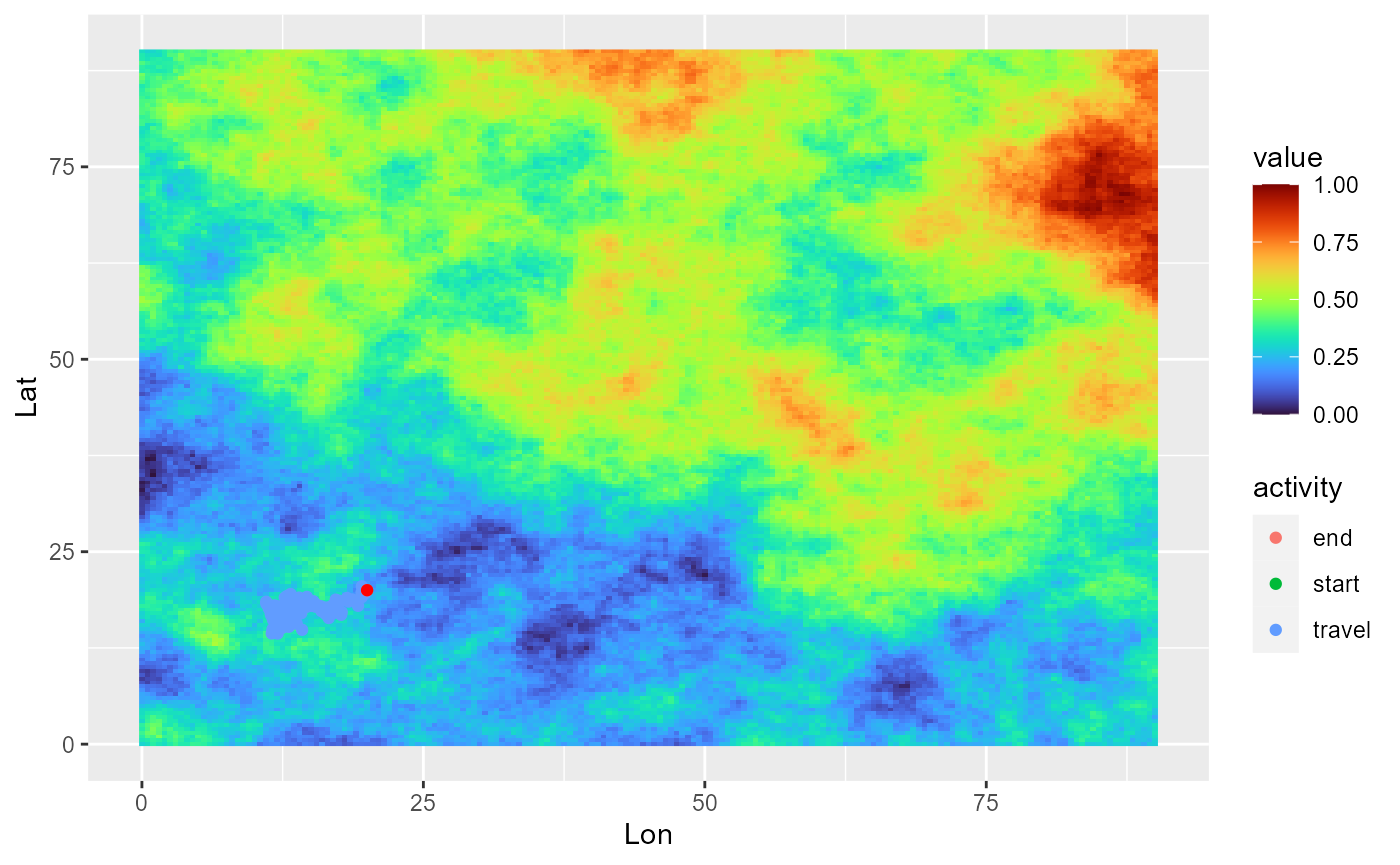
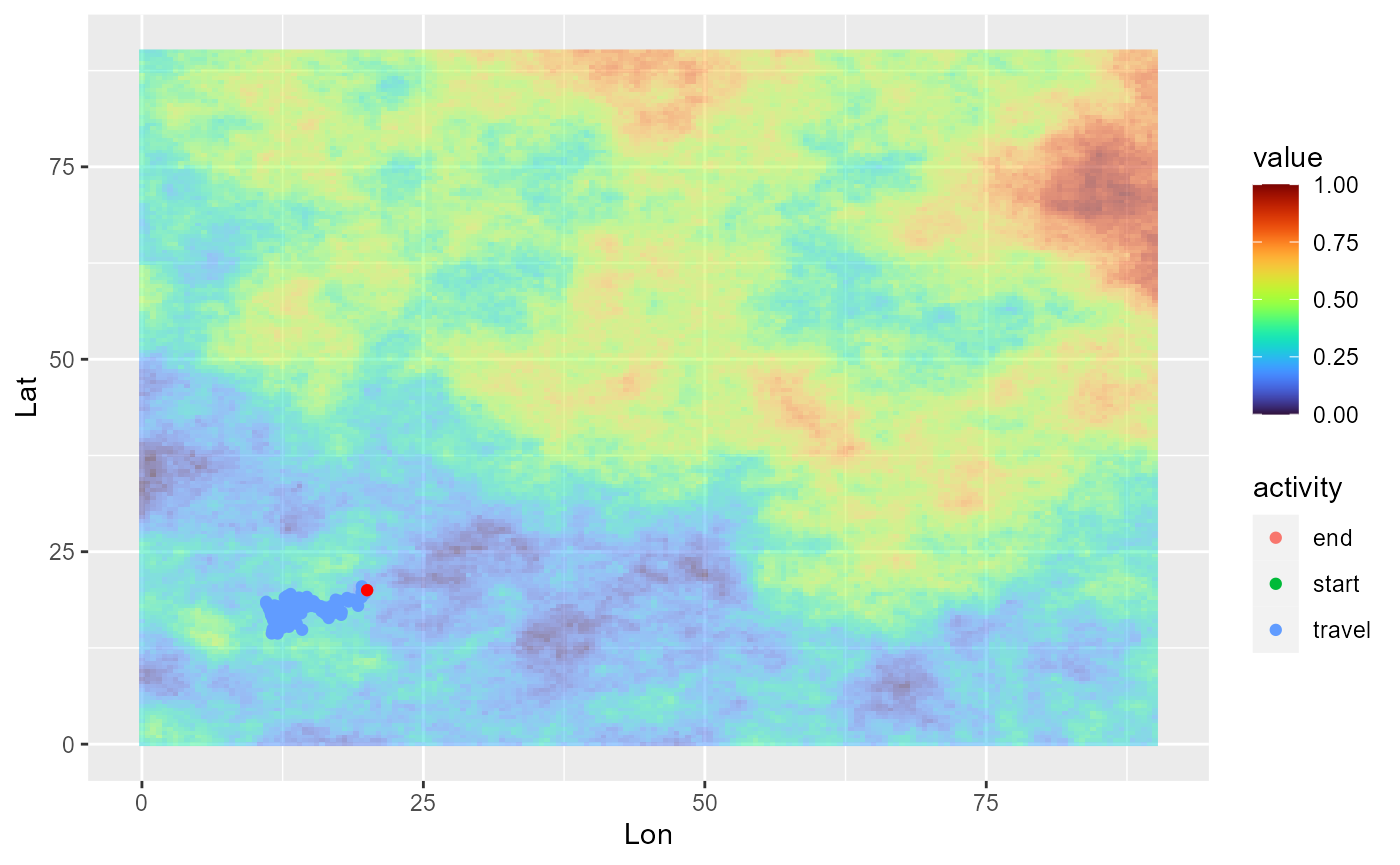
Update documentation of simulate_trajectory_FR and clean generate_env_layer examples (remove duplicates)

diff --git a/inst/site/reference/simulate_trajectory_FR.html b/inst/site/reference/simulate_trajectory_FR.html
@@ -1,5 +1,5 @@
 <!DOCTYPE html>
-<!-- Generated by pkgdown: do not edit by hand --><html lang="en"><head><meta http-equiv="Content-Type" content="text/html; charset=UTF-8"><meta charset="utf-8"><meta http-equiv="X-UA-Compatible" content="IE=edge"><meta name="viewport" content="width=device-width, initial-scale=1, shrink-to-fit=no"><meta name="description" content="Simulate the trajectory of a free ranging individual, over a given time period. The function works similarly as simulate_trajectory_CPF but the individual is not restrained around its colony and does not perform homing bout."><title>Simulate individual trajectory — simulate_trajectory_FR • simtools</title><!-- favicons --><link rel="icon" type="image/png" sizes="16x16" href="../favicon-16x16.png"><link rel="icon" type="image/png" sizes="32x32" href="../favicon-32x32.png"><link rel="apple-touch-icon" type="image/png" sizes="180x180" href="../apple-touch-icon.png"><link rel="apple-touch-icon" type="image/png" sizes="120x120" href="../apple-touch-icon-120x120.png"><link rel="apple-touch-icon" type="image/png" sizes="76x76" href="../apple-touch-icon-76x76.png"><link rel="apple-touch-icon" type="image/png" sizes="60x60" href="../apple-touch-icon-60x60.png"><script src="../deps/jquery-3.6.0/jquery-3.6.0.min.js"></script><meta name="viewport" content="width=device-width, initial-scale=1, shrink-to-fit=no"><link href="../deps/bootstrap-5.2.2/bootstrap.min.css" rel="stylesheet"><script src="../deps/bootstrap-5.2.2/bootstrap.bundle.min.js"></script><!-- Font Awesome icons --><link rel="stylesheet" href="https://cdnjs.cloudflare.com/ajax/libs/font-awesome/5.12.1/css/all.min.css" integrity="sha256-mmgLkCYLUQbXn0B1SRqzHar6dCnv9oZFPEC1g1cwlkk=" crossorigin="anonymous"><link rel="stylesheet" href="https://cdnjs.cloudflare.com/ajax/libs/font-awesome/5.12.1/css/v4-shims.min.css" integrity="sha256-wZjR52fzng1pJHwx4aV2AO3yyTOXrcDW7jBpJtTwVxw=" crossorigin="anonymous"><!-- bootstrap-toc --><script src="https://cdn.jsdelivr.net/gh/afeld/bootstrap-toc@v1.0.1/dist/bootstrap-toc.min.js" integrity="sha256-4veVQbu7//Lk5TSmc7YV48MxtMy98e26cf5MrgZYnwo=" crossorigin="anonymous"></script><!-- headroom.js --><script src="https://cdnjs.cloudflare.com/ajax/libs/headroom/0.11.0/headroom.min.js" integrity="sha256-AsUX4SJE1+yuDu5+mAVzJbuYNPHj/WroHuZ8Ir/CkE0=" crossorigin="anonymous"></script><script src="https://cdnjs.cloudflare.com/ajax/libs/headroom/0.11.0/jQuery.headroom.min.js" integrity="sha256-ZX/yNShbjqsohH1k95liqY9Gd8uOiE1S4vZc+9KQ1K4=" crossorigin="anonymous"></script><!-- clipboard.js --><script src="https://cdnjs.cloudflare.com/ajax/libs/clipboard.js/2.0.6/clipboard.min.js" integrity="sha256-inc5kl9MA1hkeYUt+EC3BhlIgyp/2jDIyBLS6k3UxPI=" crossorigin="anonymous"></script><!-- search --><script src="https://cdnjs.cloudflare.com/ajax/libs/fuse.js/6.4.6/fuse.js" integrity="sha512-zv6Ywkjyktsohkbp9bb45V6tEMoWhzFzXis+LrMehmJZZSys19Yxf1dopHx7WzIKxr5tK2dVcYmaCk2uqdjF4A==" crossorigin="anonymous"></script><script src="https://cdnjs.cloudflare.com/ajax/libs/autocomplete.js/0.38.0/autocomplete.jquery.min.js" integrity="sha512-GU9ayf+66Xx2TmpxqJpliWbT5PiGYxpaG8rfnBEk1LL8l1KGkRShhngwdXK1UgqhAzWpZHSiYPc09/NwDQIGyg==" crossorigin="anonymous"></script><script src="https://cdnjs.cloudflare.com/ajax/libs/mark.js/8.11.1/mark.min.js" integrity="sha512-5CYOlHXGh6QpOFA/TeTylKLWfB3ftPsde7AnmhuitiTX4K5SqCLBeKro6sPS8ilsz1Q4NRx3v8Ko2IBiszzdww==" crossorigin="anonymous"></script><!-- pkgdown --><script src="../pkgdown.js"></script><meta property="og:title" content="Simulate individual trajectory — simulate_trajectory_FR"><meta property="og:description" content="Simulate the trajectory of a free ranging individual, over a given time period. The function works similarly as simulate_trajectory_CPF but the individual is not restrained around its colony and does not perform homing bout."><meta property="og:image" content="/logo.png"><!-- mathjax --><script src="https://cdnjs.cloudflare.com/ajax/libs/mathjax/2.7.5/MathJax.js" integrity="sha256-nvJJv9wWKEm88qvoQl9ekL2J+k/RWIsaSScxxlsrv8k=" crossorigin="anonymous"></script><script src="https://cdnjs.cloudflare.com/ajax/libs/mathjax/2.7.5/config/TeX-AMS-MML_HTMLorMML.js" integrity="sha256-84DKXVJXs0/F8OTMzX4UR909+jtl4G7SPypPavF+GfA=" crossorigin="anonymous"></script><!--[if lt IE 9]>
+<!-- Generated by pkgdown: do not edit by hand --><html lang="en"><head><meta http-equiv="Content-Type" content="text/html; charset=UTF-8"><meta charset="utf-8"><meta http-equiv="X-UA-Compatible" content="IE=edge"><meta name="viewport" content="width=device-width, initial-scale=1, shrink-to-fit=no"><meta name="description" content="Simulate the trajectory of a free ranging individual, over a given time period. The function works similarly as simulate_trajectory_CPF but the individual is not restrained around a colony and does not perform homing bout. Here, potential_position_func() considers the initial position as the colony, so that the dist_col field in the output corresponds to the distance to this starting point."><title>Simulate individual trajectory — simulate_trajectory_FR • simtools</title><!-- favicons --><link rel="icon" type="image/png" sizes="16x16" href="../favicon-16x16.png"><link rel="icon" type="image/png" sizes="32x32" href="../favicon-32x32.png"><link rel="apple-touch-icon" type="image/png" sizes="180x180" href="../apple-touch-icon.png"><link rel="apple-touch-icon" type="image/png" sizes="120x120" href="../apple-touch-icon-120x120.png"><link rel="apple-touch-icon" type="image/png" sizes="76x76" href="../apple-touch-icon-76x76.png"><link rel="apple-touch-icon" type="image/png" sizes="60x60" href="../apple-touch-icon-60x60.png"><script src="../deps/jquery-3.6.0/jquery-3.6.0.min.js"></script><meta name="viewport" content="width=device-width, initial-scale=1, shrink-to-fit=no"><link href="../deps/bootstrap-5.2.2/bootstrap.min.css" rel="stylesheet"><script src="../deps/bootstrap-5.2.2/bootstrap.bundle.min.js"></script><!-- Font Awesome icons --><link rel="stylesheet" href="https://cdnjs.cloudflare.com/ajax/libs/font-awesome/5.12.1/css/all.min.css" integrity="sha256-mmgLkCYLUQbXn0B1SRqzHar6dCnv9oZFPEC1g1cwlkk=" crossorigin="anonymous"><link rel="stylesheet" href="https://cdnjs.cloudflare.com/ajax/libs/font-awesome/5.12.1/css/v4-shims.min.css" integrity="sha256-wZjR52fzng1pJHwx4aV2AO3yyTOXrcDW7jBpJtTwVxw=" crossorigin="anonymous"><!-- bootstrap-toc --><script src="https://cdn.jsdelivr.net/gh/afeld/bootstrap-toc@v1.0.1/dist/bootstrap-toc.min.js" integrity="sha256-4veVQbu7//Lk5TSmc7YV48MxtMy98e26cf5MrgZYnwo=" crossorigin="anonymous"></script><!-- headroom.js --><script src="https://cdnjs.cloudflare.com/ajax/libs/headroom/0.11.0/headroom.min.js" integrity="sha256-AsUX4SJE1+yuDu5+mAVzJbuYNPHj/WroHuZ8Ir/CkE0=" crossorigin="anonymous"></script><script src="https://cdnjs.cloudflare.com/ajax/libs/headroom/0.11.0/jQuery.headroom.min.js" integrity="sha256-ZX/yNShbjqsohH1k95liqY9Gd8uOiE1S4vZc+9KQ1K4=" crossorigin="anonymous"></script><!-- clipboard.js --><script src="https://cdnjs.cloudflare.com/ajax/libs/clipboard.js/2.0.6/clipboard.min.js" integrity="sha256-inc5kl9MA1hkeYUt+EC3BhlIgyp/2jDIyBLS6k3UxPI=" crossorigin="anonymous"></script><!-- search --><script src="https://cdnjs.cloudflare.com/ajax/libs/fuse.js/6.4.6/fuse.js" integrity="sha512-zv6Ywkjyktsohkbp9bb45V6tEMoWhzFzXis+LrMehmJZZSys19Yxf1dopHx7WzIKxr5tK2dVcYmaCk2uqdjF4A==" crossorigin="anonymous"></script><script src="https://cdnjs.cloudflare.com/ajax/libs/autocomplete.js/0.38.0/autocomplete.jquery.min.js" integrity="sha512-GU9ayf+66Xx2TmpxqJpliWbT5PiGYxpaG8rfnBEk1LL8l1KGkRShhngwdXK1UgqhAzWpZHSiYPc09/NwDQIGyg==" crossorigin="anonymous"></script><script src="https://cdnjs.cloudflare.com/ajax/libs/mark.js/8.11.1/mark.min.js" integrity="sha512-5CYOlHXGh6QpOFA/TeTylKLWfB3ftPsde7AnmhuitiTX4K5SqCLBeKro6sPS8ilsz1Q4NRx3v8Ko2IBiszzdww==" crossorigin="anonymous"></script><!-- pkgdown --><script src="../pkgdown.js"></script><meta property="og:title" content="Simulate individual trajectory — simulate_trajectory_FR"><meta property="og:description" content="Simulate the trajectory of a free ranging individual, over a given time period. The function works similarly as simulate_trajectory_CPF but the individual is not restrained around a colony and does not perform homing bout. Here, potential_position_func() considers the initial position as the colony, so that the dist_col field in the output corresponds to the distance to this starting point."><meta property="og:image" content="/logo.png"><!-- mathjax --><script src="https://cdnjs.cloudflare.com/ajax/libs/mathjax/2.7.5/MathJax.js" integrity="sha256-nvJJv9wWKEm88qvoQl9ekL2J+k/RWIsaSScxxlsrv8k=" crossorigin="anonymous"></script><script src="https://cdnjs.cloudflare.com/ajax/libs/mathjax/2.7.5/config/TeX-AMS-MML_HTMLorMML.js" integrity="sha256-84DKXVJXs0/F8OTMzX4UR909+jtl4G7SPypPavF+GfA=" crossorigin="anonymous"></script><!--[if lt IE 9]>
 <script src="https://oss.maxcdn.com/html5shiv/3.7.3/html5shiv.min.js"></script>
 <script src="https://oss.maxcdn.com/respond/1.4.2/respond.min.js"></script>
 <![endif]--></head><body>
@@ -55,7 +55,7 @@
     </div>
 
     <div class="ref-description section level2">
-    <p>Simulate the trajectory of a free ranging individual, over a given time period. The function works similarly as <code><a href="simulate_trajectory_CPF.html">simulate_trajectory_CPF</a></code> but the individual is not restrained around its colony and does not perform homing bout.</p>
+    <p>Simulate the trajectory of a free ranging individual, over a given time period. The function works similarly as <code><a href="simulate_trajectory_CPF.html">simulate_trajectory_CPF</a></code> but the individual is not restrained around a colony and does not perform homing bout. Here, <code><a href="potential_position_func.html">potential_position_func()</a></code> considers the initial position as the colony, so that the dist_col field in the output corresponds to the distance to this starting point.</p>
     </div>
 
     <div class="section level2">
@@ -188,7 +188,7 @@
 <span class="r-in"><span></span></span>
 <span class="r-in"><span><span class="co"># view the trajectory</span></span></span>
 <span class="r-in"><span><span class="fu"><a href="https://ggplot2.tidyverse.org/reference/ggplot.html" class="external-link">ggplot</a></span><span class="op">(</span><span class="va">single_traj</span><span class="op">)</span> <span class="op">+</span></span></span>
-<span class="r-in"><span>  <span class="fu"><a href="https://dieghernan.github.io/tidyterra/reference/geom_spatraster.html" class="external-link">geom_spatraster</a></span><span class="op">(</span>data <span class="op">=</span> <span class="va">cdt</span><span class="op">$</span><span class="va">rasters</span><span class="op">)</span> <span class="op">+</span> </span></span>
+<span class="r-in"><span>  <span class="fu"><a href="https://dieghernan.github.io/tidyterra/reference/geom_spatraster.html" class="external-link">geom_spatraster</a></span><span class="op">(</span>data <span class="op">=</span> <span class="va">cdt</span><span class="op">$</span><span class="va">rasters</span>, alpha <span class="op">=</span> <span class="fl">0.5</span><span class="op">)</span> <span class="op">+</span> </span></span>
 <span class="r-in"><span>  <span class="fu"><a href="https://ggplot2.tidyverse.org/reference/geom_point.html" class="external-link">geom_point</a></span><span class="op">(</span><span class="fu"><a href="https://ggplot2.tidyverse.org/reference/aes.html" class="external-link">aes</a></span><span class="op">(</span>x <span class="op">=</span> <span class="va">Lon</span>, y <span class="op">=</span> <span class="va">Lat</span>, color <span class="op">=</span> <span class="va">activity</span><span class="op">)</span><span class="op">)</span> <span class="op">+</span></span></span>
 <span class="r-in"><span>  <span class="fu"><a href="https://ggplot2.tidyverse.org/reference/geom_point.html" class="external-link">geom_point</a></span><span class="op">(</span>data <span class="op">=</span> <span class="va">colony_location</span>, <span class="fu"><a href="https://ggplot2.tidyverse.org/reference/aes.html" class="external-link">aes</a></span><span class="op">(</span>x <span class="op">=</span> <span class="va">Lon</span>, y <span class="op">=</span> <span class="va">Lat</span><span class="op">)</span>, col <span class="op">=</span> <span class="st">"red"</span><span class="op">)</span> <span class="op">+</span></span></span>
 <span class="r-in"><span>  <span class="fu"><a href="https://sjmgarnier.github.io/viridis/reference/scale_viridis.html" class="external-link">scale_fill_viridis</a></span><span class="op">(</span>option <span class="op">=</span> <span class="st">"H"</span><span class="op">)</span> </span></span>

diff --git a/inst/site/articles/simulate-individual-movements.html b/inst/site/articles/simulate-individual-movements.html
@@ -214,7 +214,7 @@ colony.</p>
 <span></span>
 <span><span class="co"># view the trajectory</span></span>
 <span><span class="fu"><a href="https://ggplot2.tidyverse.org/reference/ggplot.html" class="external-link">ggplot</a></span><span class="op">(</span><span class="va">single_traj</span><span class="op">)</span> <span class="op">+</span></span>
-<span>  <span class="fu"><a href="https://dieghernan.github.io/tidyterra/reference/geom_spatraster.html" class="external-link">geom_spatraster</a></span><span class="op">(</span>data <span class="op">=</span> <span class="va">cdt</span><span class="op">$</span><span class="va">rasters</span><span class="op">)</span> <span class="op">+</span> </span>
+<span>  <span class="fu"><a href="https://dieghernan.github.io/tidyterra/reference/geom_spatraster.html" class="external-link">geom_spatraster</a></span><span class="op">(</span>data <span class="op">=</span> <span class="va">cdt</span><span class="op">$</span><span class="va">rasters</span>, alpha <span class="op">=</span> <span class="fl">0.5</span><span class="op">)</span> <span class="op">+</span> </span>
 <span>  <span class="fu"><a href="https://ggplot2.tidyverse.org/reference/geom_point.html" class="external-link">geom_point</a></span><span class="op">(</span><span class="fu"><a href="https://ggplot2.tidyverse.org/reference/aes.html" class="external-link">aes</a></span><span class="op">(</span>x <span class="op">=</span> <span class="va">Lon</span>, y <span class="op">=</span> <span class="va">Lat</span>, color <span class="op">=</span> <span class="va">activity</span><span class="op">)</span><span class="op">)</span> <span class="op">+</span></span>
 <span>  <span class="fu"><a href="https://ggplot2.tidyverse.org/reference/geom_point.html" class="external-link">geom_point</a></span><span class="op">(</span>data <span class="op">=</span> <span class="va">colony_location</span>, <span class="fu"><a href="https://ggplot2.tidyverse.org/reference/aes.html" class="external-link">aes</a></span><span class="op">(</span>x <span class="op">=</span> <span class="va">Lon</span>, y <span class="op">=</span> <span class="va">Lat</span><span class="op">)</span>, col <span class="op">=</span> <span class="st">"red"</span><span class="op">)</span> <span class="op">+</span></span>
 <span>  <span class="fu"><a href="https://sjmgarnier.github.io/viridis/reference/scale_viridis.html" class="external-link">scale_fill_viridis</a></span><span class="op">(</span>option <span class="op">=</span> <span class="st">"H"</span><span class="op">)</span> </span></code></pre></div>
@@ -266,7 +266,7 @@ homing bout.</p>
 <span></span>
 <span><span class="co"># view the trajectory</span></span>
 <span><span class="fu"><a href="https://ggplot2.tidyverse.org/reference/ggplot.html" class="external-link">ggplot</a></span><span class="op">(</span><span class="va">single_traj</span><span class="op">)</span> <span class="op">+</span></span>
-<span>  <span class="fu"><a href="https://dieghernan.github.io/tidyterra/reference/geom_spatraster.html" class="external-link">geom_spatraster</a></span><span class="op">(</span>data <span class="op">=</span> <span class="va">cdt</span><span class="op">$</span><span class="va">rasters</span><span class="op">)</span> <span class="op">+</span> </span>
+<span>  <span class="fu"><a href="https://dieghernan.github.io/tidyterra/reference/geom_spatraster.html" class="external-link">geom_spatraster</a></span><span class="op">(</span>data <span class="op">=</span> <span class="va">cdt</span><span class="op">$</span><span class="va">rasters</span>, alpha <span class="op">=</span> <span class="fl">0.5</span><span class="op">)</span> <span class="op">+</span> </span>
 <span>  <span class="fu"><a href="https://ggplot2.tidyverse.org/reference/geom_point.html" class="external-link">geom_point</a></span><span class="op">(</span><span class="fu"><a href="https://ggplot2.tidyverse.org/reference/aes.html" class="external-link">aes</a></span><span class="op">(</span>x <span class="op">=</span> <span class="va">Lon</span>, y <span class="op">=</span> <span class="va">Lat</span>, color <span class="op">=</span> <span class="va">activity</span><span class="op">)</span><span class="op">)</span> <span class="op">+</span></span>
 <span>  <span class="fu"><a href="https://ggplot2.tidyverse.org/reference/geom_point.html" class="external-link">geom_point</a></span><span class="op">(</span>data <span class="op">=</span> <span class="va">colony_location</span>, <span class="fu"><a href="https://ggplot2.tidyverse.org/reference/aes.html" class="external-link">aes</a></span><span class="op">(</span>x <span class="op">=</span> <span class="va">Lon</span>, y <span class="op">=</span> <span class="va">Lat</span><span class="op">)</span>, col <span class="op">=</span> <span class="st">"red"</span><span class="op">)</span> <span class="op">+</span></span>
 <span>  <span class="fu"><a href="https://sjmgarnier.github.io/viridis/reference/scale_viridis.html" class="external-link">scale_fill_viridis</a></span><span class="op">(</span>option <span class="op">=</span> <span class="st">"H"</span><span class="op">)</span> </span></code></pre></div>

diff --git a/inst/site/reference/generate_env_layer.html b/inst/site/reference/generate_env_layer.html
@@ -119,22 +119,12 @@
 <span class="r-out co"><span class="r-pr">#&gt;</span>  $ y   : num  0 0 0 0 0 0 0 0 0 0 ...</span>
 <span class="r-out co"><span class="r-pr">#&gt;</span>  $ sim1: num  4.71 5.35 4.81 7.42 6.74 ...</span>
 <span class="r-out co"><span class="r-pr">#&gt;</span>  $ sim2: num  -0.377 -0.575 -0.766 -3.876 -4.276 ...</span>
-<span class="r-in"><span><span class="fu"><a href="https://rdrr.io/r/utils/str.html" class="external-link">str</a></span><span class="op">(</span><span class="fu">generate_env_layer</span><span class="op">(</span>norm <span class="op">=</span> <span class="cn">TRUE</span>, return_rasters <span class="op">=</span> <span class="cn">FALSE</span>, grid <span class="op">=</span> <span class="va">grid</span><span class="op">)</span><span class="op">)</span></span></span>
-<span class="r-out co"><span class="r-pr">#&gt;</span> [using unconditional Gaussian simulation]</span>
-<span class="r-out co"><span class="r-pr">#&gt;</span> 'data.frame':	32761 obs. of  4 variables:</span>
-<span class="r-out co"><span class="r-pr">#&gt;</span>  $ x   : num  0 0.5 1 1.5 2 2.5 3 3.5 4 4.5 ...</span>
-<span class="r-out co"><span class="r-pr">#&gt;</span>  $ y   : num  0 0 0 0 0 0 0 0 0 0 ...</span>
-<span class="r-out co"><span class="r-pr">#&gt;</span>  $ sim1: num  0.213 0.234 0.217 0.301 0.279 ...</span>
-<span class="r-out co"><span class="r-pr">#&gt;</span>  $ sim2: num  0.455 0.45 0.445 0.367 0.357 ...</span>
 <span class="r-in"><span></span></span>
 <span class="r-in"><span><span class="kw"><a href="https://rdrr.io/r/base/library.html" class="external-link">library</a></span><span class="op">(</span><span class="va"><a href="https://rspatial.org/terra/" class="external-link">terra</a></span><span class="op">)</span></span></span>
 <span class="r-msg co"><span class="r-pr">#&gt;</span> terra 1.7.18</span>
 <span class="r-in"><span><span class="fu"><a href="https://rdrr.io/pkg/terra/man/plot.html" class="external-link">plot</a></span><span class="op">(</span><span class="fu">generate_env_layer</span><span class="op">(</span>norm <span class="op">=</span> <span class="cn">TRUE</span>, return_rasters <span class="op">=</span> <span class="cn">TRUE</span>, grid <span class="op">=</span> <span class="va">grid</span><span class="op">)</span><span class="op">$</span><span class="va">rasters</span><span class="op">)</span></span></span>
 <span class="r-out co"><span class="r-pr">#&gt;</span> [using unconditional Gaussian simulation]</span>
 <span class="r-plt img"><img src="generate_env_layer-1.png" alt="" width="700" height="433"></span>
-<span class="r-in"><span><span class="fu"><a href="https://rdrr.io/pkg/terra/man/plot.html" class="external-link">plot</a></span><span class="op">(</span><span class="fu">generate_env_layer</span><span class="op">(</span>norm <span class="op">=</span> <span class="cn">FALSE</span>, return_rasters <span class="op">=</span> <span class="cn">TRUE</span>, grid <span class="op">=</span> <span class="va">grid</span><span class="op">)</span><span class="op">$</span><span class="va">rasters</span><span class="op">)</span></span></span>
-<span class="r-out co"><span class="r-pr">#&gt;</span> [using unconditional Gaussian simulation]</span>
-<span class="r-plt img"><img src="generate_env_layer-2.png" alt="" width="700" height="433"></span>
 </code></pre></div>
     </div>
   </main><aside class="col-md-3"><nav id="toc"><h2>On this page</h2>

diff --git a/inst/site/authors.html b/inst/site/authors.html
@@ -65,14 +65,14 @@
       <h2 id="citation">Citation</h2>
       <p></p>
 
-      <p>Lambert C (2023).
+      <p>Lambert C (2024).
 <em>simtools: Tools For Simulation Analyses</em>.
 R package version 0.1.0. 
 </p>
       <pre>@Manual{,
   title = {simtools: Tools For Simulation Analyses},
   author = {Charlotte Lambert},
-  year = {2023},
+  year = {2024},
   note = {R package version 0.1.0},
 }</pre>
     </div>
